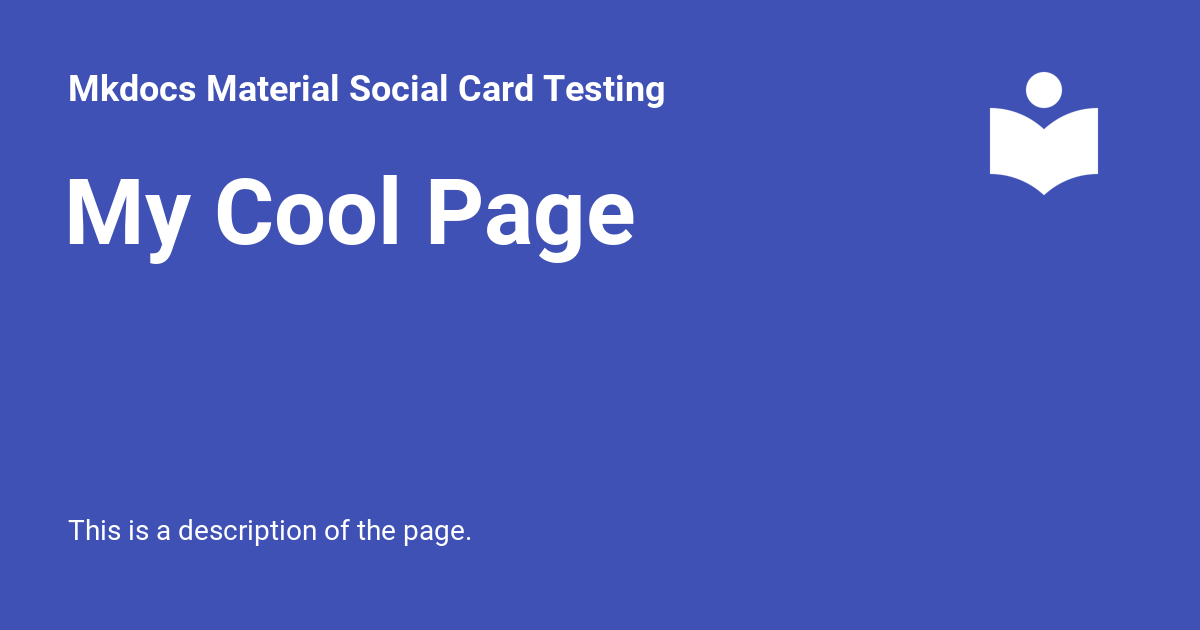
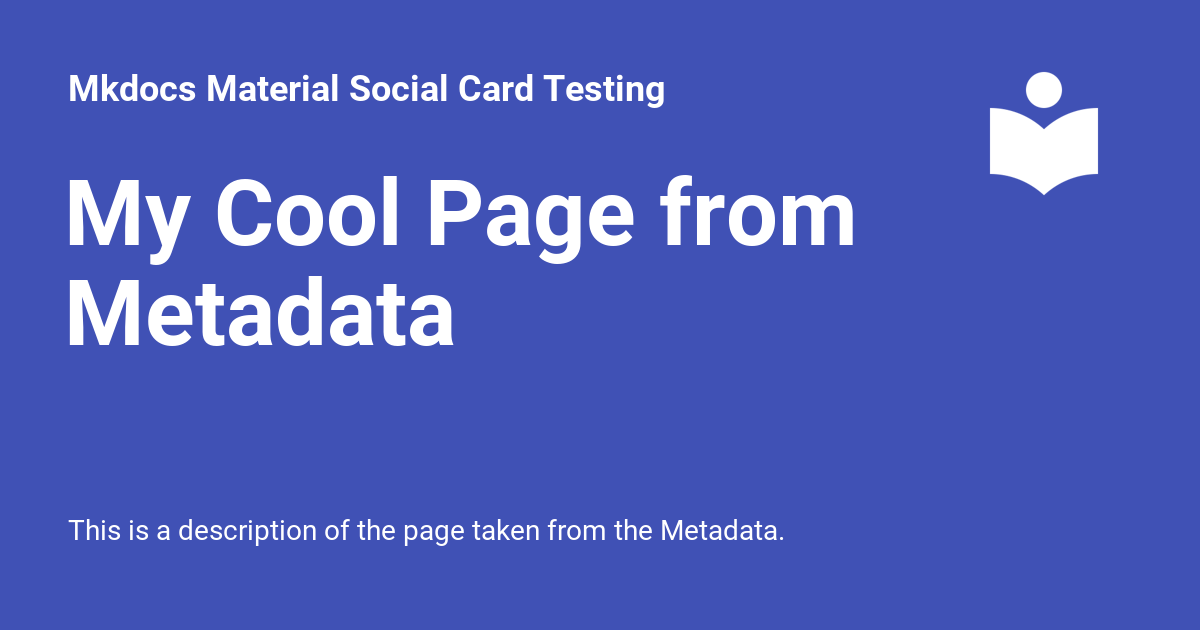
Deployed 9b9e887 with MkDocs version: 1.5.3

diff --git a/test-metadata/index.html b/test-metadata/index.html
@@ -6,7 +6,7 @@
       <meta charset="utf-8">
       <meta name="viewport" content="width=device-width,initial-scale=1">
       
-        <meta name="description" content="This is a description of the page.">
+        <meta name="description" content="This is a description of the page taken from the Metadata.">
       
       
         <meta name="author" content="Dan McCreary">
@@ -24,7 +24,7 @@
     
     
       
-        <title>My Cool Page - Mkdocs Material Social Card Testing</title>
+        <title>My Cool Page from Metadata - Mkdocs Material Social Card Testing</title>
       
     
     
@@ -66,9 +66,9 @@
       
         <meta  property="og:type"  content="website" >
       
-        <meta  property="og:title"  content="My Cool Page - Mkdocs Material Social Card Testing" >
+        <meta  property="og:title"  content="My Cool Page from Metadata - Mkdocs Material Social Card Testing" >
       
-        <meta  property="og:description"  content="This is a description of the page." >
+        <meta  property="og:description"  content="This is a description of the page taken from the Metadata." >
       
         <meta  property="og:image"  content="https://dmccreary.github.io/mkdocs-material-social/assets/images/social/test-metadata.png" >
       
@@ -82,9 +82,9 @@
       
         <meta  name="twitter:card"  content="summary_large_image" >
       
-        <meta  name="twitter:title"  content="My Cool Page - Mkdocs Material Social Card Testing" >
+        <meta  name="twitter:title"  content="My Cool Page from Metadata - Mkdocs Material Social Card Testing" >
       
-        <meta  name="twitter:description"  content="This is a description of the page." >
+        <meta  name="twitter:description"  content="This is a description of the page taken from the Metadata." >
       
         <meta  name="twitter:image"  content="https://dmccreary.github.io/mkdocs-material-social/assets/images/social/test-metadata.png" >
       
@@ -141,7 +141,7 @@
         <div class="md-header__topic" data-md-component="header-topic">
           <span class="md-ellipsis">
             
-              My Cool Page
+              My Cool Page from Metadata
             
           </span>
         </div>
@@ -444,6 +444,7 @@
 
 <h1 id="test-metadata">Test Metadata</h1>
 <p>This is a test of adding metadata within the triple dashes.</p>
+<p><img alt="Local Image" src="../img/local-image.png" /></p>
 
 
   
